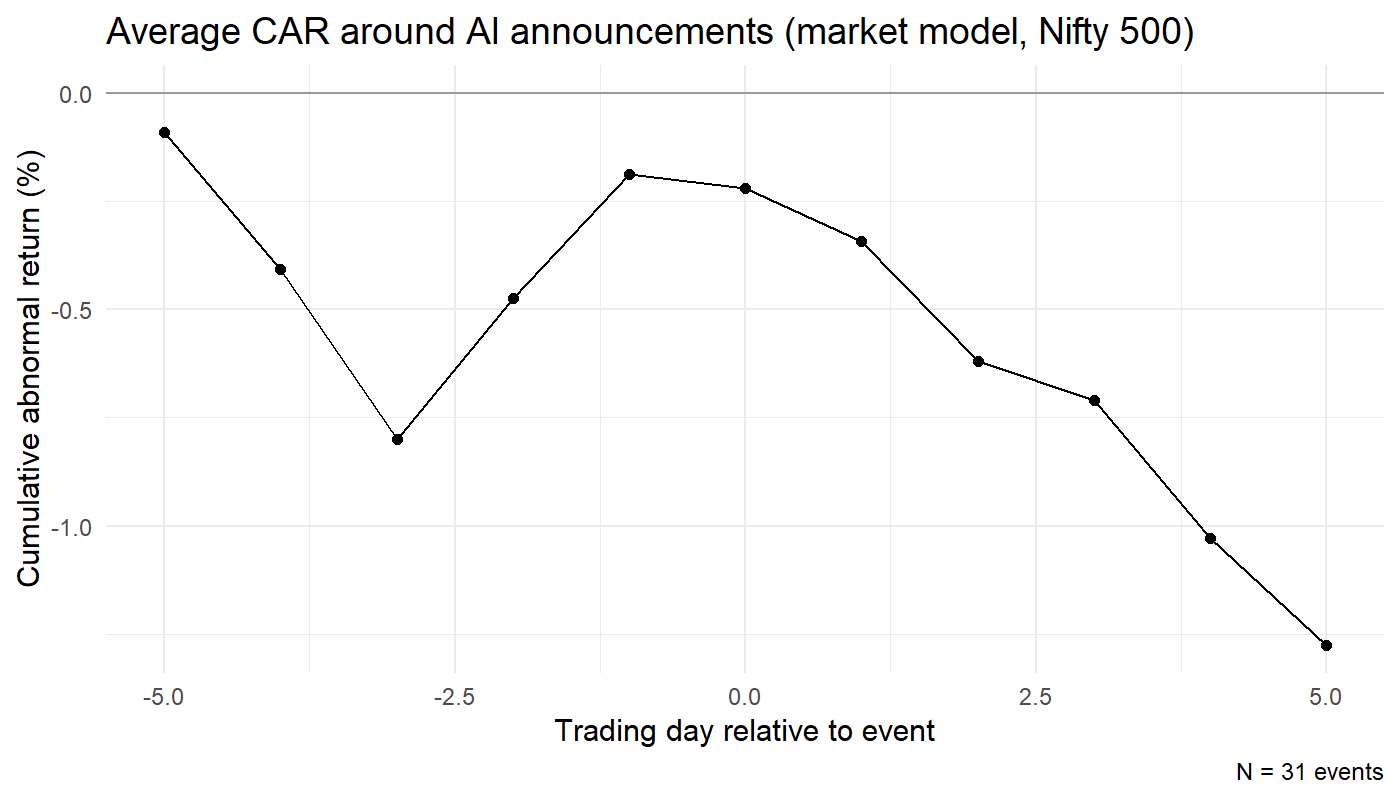
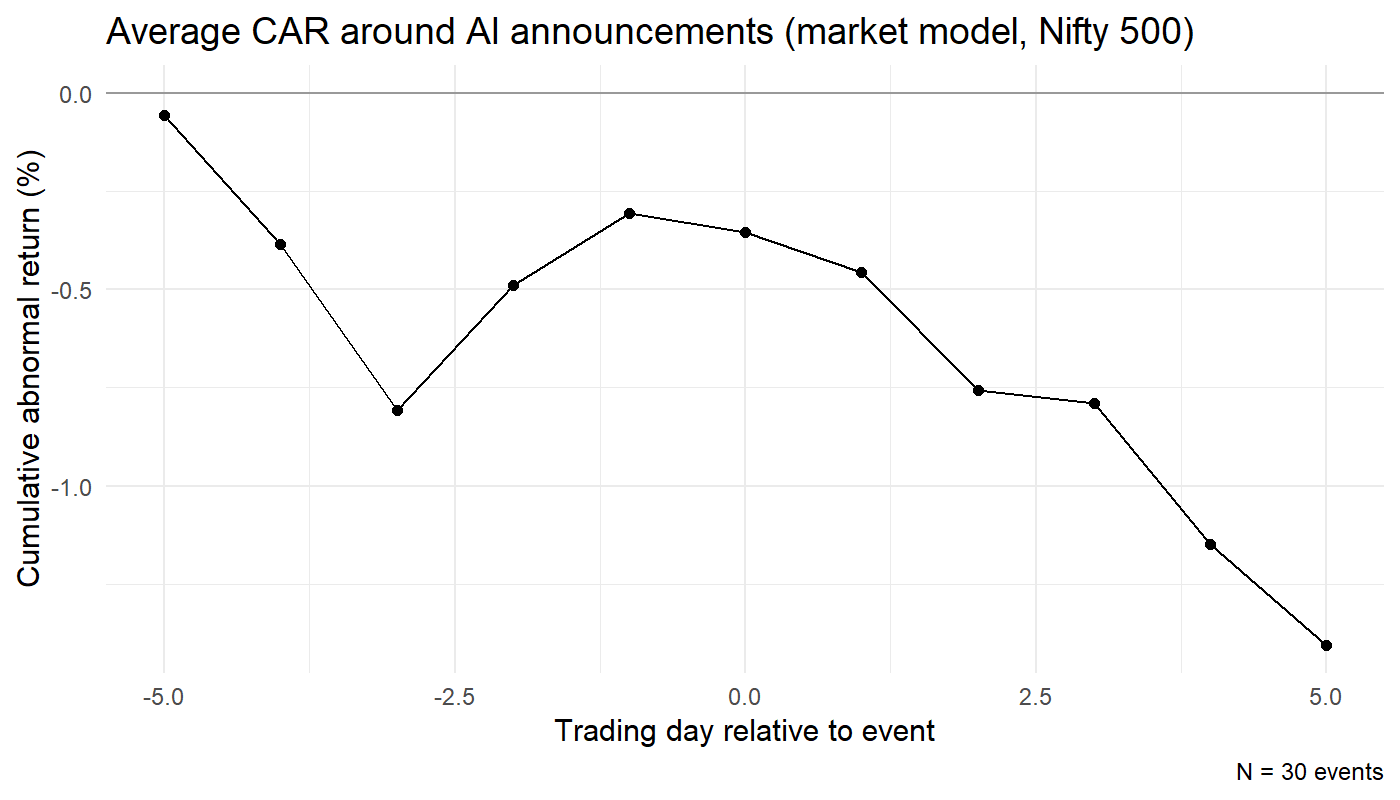
Post-hoc diagnostics: private-only CS DiD and Sun-Abraham with PSU x FY FE; same-firm overlap rule (Paytm E039 dropped), CARs re-run; AI x demonetisation removed from summary headline
- src/R/23_did_posthoc.R: CS private banks only (ROE -3.27 pp p=0.57; stock -36.3% p=0.004);
  SA bank FE + PSU x FY FE (ROE -2.48 pp p=0.043; stock -15.8% p=0.006); leads and n treated/control
- 30_event_study.R: keep earlier of overlapping same-firm events; N 31 -> 30
- spec_changes, summary, spec log, data notes updated; all labelled post-hoc

diff --git a/src/python/10_spec_log.py b/src/python/10_spec_log.py
@@ -41,11 +41,16 @@ for r in pc.itertuples():  # POST-HOC (docs/spec_changes.md 2026-11-26)
     rows.append(f"| {D} | src/R/22_psu_check.R (POST-HOC) | {r.outcome} | `ai_l1:psu` (per 1 SD, t−1) | n={r.n} | "
                 f"{r.spec}; controls(t−1); cluster bank | {fmt(r.interaction)} | SE {fmt(r.se_int)}, p={fmt(r.p_int)}, "
                 f"wild p={fmt(r.p_int_wild)} | PSU slope {fmt(r.psu_slope)} (p={fmt(r.p_psu)}) |")
+dp = pd.read_csv(T / "did_posthoc.csv") if (T / "did_posthoc.csv").exists() else pd.DataFrame()
+for r in (dp[dp["term"] == "overall ATT"].itertuples() if len(dp) else []):  # POST-HOC (docs/spec_changes.md 2026-11-26)
+    rows.append(f"| {D} | src/R/23_did_posthoc.R (POST-HOC) | {r.outcome} | post_adopt (gname_main) | {r.n_treated} treated, "
+                f"{r.n_control_never} never/late | {r.spec}; x = {r.xformla} | {fmt(r.estimate)} | SE {fmt(r.se)}, p={fmt(r.p)} | "
+                f"joint pre p={fmt(r.pretrend_wald_p)}; leads in did_posthoc.csv |")
 ev = pd.read_csv(T / "event_study_tests.csv")
 for r in ev.itertuples():
     rows.append(f"| {D} | src/R/30_event_study.R | CAR{r.window} (%) | AI announcement | {r.group}, N={r.N} | "
                 f"market model [−250,−30], benchmark {r.benchmark} | mean {fmt(r.mean_car_pct, 2)}% | "
-                f"KP-BMP p={fmt(r.p_kp)}, Corrado p={fmt(r.p_corrado)} | r̄={fmt(r.rbar)} |")
+                f"KP-BMP p={fmt(r.p_kp)}, Corrado p={fmt(r.p_corrado)} | r̄={fmt(r.rbar)}; POST-HOC same-firm overlap rule applied (E039 dropped) |")
 
 text = LOG.read_text(encoding="utf-8")
 if BEGIN in text:
@@ -53,4 +58,4 @@ if BEGIN in text:
 block = "\n".join([BEGIN] + rows + [END]) + "\n"
 LOG.write_text(text + block, encoding="utf-8")
 print(f"spec_log: {len(rows)} generated rows (FE {len(fe)}, DiD {len(dd[dd.term.isin(['overall ATT', 'ATT'])])}, "
-      f"robustness {len(rb)}, PSU check {len(pc)}, event study {len(ev)})")
+      f"robustness {len(rb)}, PSU check {len(pc)}, DiD post-hoc {len(dp[dp.term == 'overall ATT']) if len(dp) else 0}, event study {len(ev)})")

diff --git a/results/spec_log.md b/results/spec_log.md
@@ -164,40 +164,44 @@ Every estimated specification, including null results.
 | 2026-11-26 | src/R/22_psu_check.R (POST-HOC) | tobins_q | `ai_l1:psu` (per 1 SD, t−1) | n=306 | (1) original: bank + FY FE; controls(t−1); cluster bank | 0.020 | SE 0.017, p=0.237, wild p=0.288 | PSU slope -0.002 (p=0.811) |
 | 2026-11-26 | src/R/22_psu_check.R (POST-HOC) | tobins_q | `ai_l1:psu` (per 1 SD, t−1) | n=306 | (2) PSU-specific year FE; controls(t−1); cluster bank | -0.004 | SE 0.018, p=0.843, wild p=0.865 | PSU slope -0.005 (p=0.285) |
 | 2026-11-26 | src/R/22_psu_check.R (POST-HOC) | tobins_q | `ai_l1:psu` (per 1 SD, t−1) | n=306 | (3) bank-specific linear trends; controls(t−1); cluster bank | 0.010 | SE 0.016, p=0.541, wild p= | PSU slope -0.003 (p=0.146) |
-| 2026-11-26 | src/R/30_event_study.R | CAR[-1,+1] (%) | AI announcement | All, N=31 | market model [−250,−30], benchmark NIFTY500 | mean 0.13% | KP-BMP p=0.813, Corrado p=0.493 | r̄=0.129 |
-| 2026-11-26 | src/R/30_event_study.R | CAR[-5,+5] (%) | AI announcement | All, N=31 | market model [−250,−30], benchmark NIFTY500 | mean -1.28% | KP-BMP p=0.460, Corrado p=0.200 | r̄=0.129 |
-| 2026-11-26 | src/R/30_event_study.R | CAR[-1,+1] (%) | AI announcement | type: Private, N=14 | market model [−250,−30], benchmark NIFTY500 | mean -0.15% | KP-BMP p=0.914, Corrado p=0.892 | r̄=0.129 |
-| 2026-11-26 | src/R/30_event_study.R | CAR[-5,+5] (%) | AI announcement | type: Private, N=14 | market model [−250,−30], benchmark NIFTY500 | mean -1.54% | KP-BMP p=0.437, Corrado p=0.228 | r̄=0.129 |
-| 2026-11-26 | src/R/30_event_study.R | CAR[-1,+1] (%) | AI announcement | type: NBFC, N=4 | market model [−250,−30], benchmark NIFTY500 | mean 1.71% | KP-BMP p=0.284, Corrado p=0.075 | r̄=0.129 |
-| 2026-11-26 | src/R/30_event_study.R | CAR[-5,+5] (%) | AI announcement | type: NBFC, N=4 | market model [−250,−30], benchmark NIFTY500 | mean 1.74% | KP-BMP p=0.648, Corrado p=0.288 | r̄=0.129 |
-| 2026-11-26 | src/R/30_event_study.R | CAR[-1,+1] (%) | AI announcement | type: PSU, N=8 | market model [−250,−30], benchmark NIFTY500 | mean -0.37% | KP-BMP p=0.965, Corrado p=0.846 | r̄=0.129 |
-| 2026-11-26 | src/R/30_event_study.R | CAR[-5,+5] (%) | AI announcement | type: PSU, N=8 | market model [−250,−30], benchmark NIFTY500 | mean -2.70% | KP-BMP p=0.041, Corrado p=0.047 | r̄=0.129 |
-| 2026-11-26 | src/R/30_event_study.R | CAR[-1,+1] (%) | AI announcement | type: Fintech, N=5 | market model [−250,−30], benchmark NIFTY500 | mean 0.48% | KP-BMP p=0.742, Corrado p=0.557 | r̄=0.129 |
-| 2026-11-26 | src/R/30_event_study.R | CAR[-5,+5] (%) | AI announcement | type: Fintech, N=5 | market model [−250,−30], benchmark NIFTY500 | mean -0.68% | KP-BMP p=0.816, Corrado p=0.769 | r̄=0.129 |
-| 2026-11-26 | src/R/30_event_study.R | CAR[-1,+1] (%) | AI announcement | category: product/service launch, N=19 | market model [−250,−30], benchmark NIFTY500 | mean 0.27% | KP-BMP p=0.868, Corrado p=0.463 | r̄=0.129 |
-| 2026-11-26 | src/R/30_event_study.R | CAR[-5,+5] (%) | AI announcement | category: product/service launch, N=19 | market model [−250,−30], benchmark NIFTY500 | mean -1.62% | KP-BMP p=0.345, Corrado p=0.095 | r̄=0.129 |
-| 2026-11-26 | src/R/30_event_study.R | CAR[-1,+1] (%) | AI announcement | category: partnership/vendor deal, N=4 | market model [−250,−30], benchmark NIFTY500 | mean -2.49% | KP-BMP p=0.326, Corrado p=0.256 | r̄=0.129 |
-| 2026-11-26 | src/R/30_event_study.R | CAR[-5,+5] (%) | AI announcement | category: partnership/vendor deal, N=4 | market model [−250,−30], benchmark NIFTY500 | mean -3.06% | KP-BMP p=0.295, Corrado p=0.699 | r̄=0.129 |
-| 2026-11-26 | src/R/30_event_study.R | CAR[-1,+1] (%) | AI announcement | category: ai investment/acquisition, N=6 | market model [−250,−30], benchmark NIFTY500 | mean 0.72% | KP-BMP p=0.694, Corrado p=0.474 | r̄=0.129 |
-| 2026-11-26 | src/R/30_event_study.R | CAR[-5,+5] (%) | AI announcement | category: ai investment/acquisition, N=6 | market model [−250,−30], benchmark NIFTY500 | mean 0.14% | KP-BMP p=0.862, Corrado p=0.909 | r̄=0.129 |
-| 2026-11-26 | src/R/30_event_study.R | CAR[-1,+1] (%) | AI announcement | category: internal deployment, N=2 | market model [−250,−30], benchmark NIFTY500 | mean 2.29% | KP-BMP p=0.214, Corrado p=0.361 | r̄=0.129 |
-| 2026-11-26 | src/R/30_event_study.R | CAR[-5,+5] (%) | AI announcement | category: internal deployment, N=2 | market model [−250,−30], benchmark NIFTY500 | mean 1.30% | KP-BMP p=0.789, Corrado p=0.769 | r̄=0.129 |
-| 2026-11-26 | src/R/30_event_study.R | CAR[-1,+1] (%) | AI announcement | All, N=31 | market model [−250,−30], benchmark NIFTYBANK | mean 0.12% | KP-BMP p=0.747, Corrado p=0.560 | r̄=0.069 |
-| 2026-11-26 | src/R/30_event_study.R | CAR[-5,+5] (%) | AI announcement | All, N=31 | market model [−250,−30], benchmark NIFTYBANK | mean -1.14% | KP-BMP p=0.440, Corrado p=0.205 | r̄=0.069 |
-| 2026-11-26 | src/R/30_event_study.R | CAR[-1,+1] (%) | AI announcement | type: Private, N=14 | market model [−250,−30], benchmark NIFTYBANK | mean 0.04% | KP-BMP p=0.993, Corrado p=0.920 | r̄=0.069 |
-| 2026-11-26 | src/R/30_event_study.R | CAR[-5,+5] (%) | AI announcement | type: Private, N=14 | market model [−250,−30], benchmark NIFTYBANK | mean -0.77% | KP-BMP p=0.587, Corrado p=0.522 | r̄=0.069 |
-| 2026-11-26 | src/R/30_event_study.R | CAR[-1,+1] (%) | AI announcement | type: NBFC, N=4 | market model [−250,−30], benchmark NIFTYBANK | mean 1.89% | KP-BMP p=0.161, Corrado p=0.082 | r̄=0.069 |
-| 2026-11-26 | src/R/30_event_study.R | CAR[-5,+5] (%) | AI announcement | type: NBFC, N=4 | market model [−250,−30], benchmark NIFTYBANK | mean 0.60% | KP-BMP p=0.983, Corrado p=0.938 | r̄=0.069 |
-| 2026-11-26 | src/R/30_event_study.R | CAR[-1,+1] (%) | AI announcement | type: PSU, N=8 | market model [−250,−30], benchmark NIFTYBANK | mean -0.47% | KP-BMP p=0.983, Corrado p=0.981 | r̄=0.069 |
-| 2026-11-26 | src/R/30_event_study.R | CAR[-5,+5] (%) | AI announcement | type: PSU, N=8 | market model [−250,−30], benchmark NIFTYBANK | mean -2.83% | KP-BMP p=0.211, Corrado p=0.088 | r̄=0.069 |
-| 2026-11-26 | src/R/30_event_study.R | CAR[-1,+1] (%) | AI announcement | type: Fintech, N=5 | market model [−250,−30], benchmark NIFTYBANK | mean -0.14% | KP-BMP p=0.975, Corrado p=0.986 | r̄=0.069 |
-| 2026-11-26 | src/R/30_event_study.R | CAR[-5,+5] (%) | AI announcement | type: Fintech, N=5 | market model [−250,−30], benchmark NIFTYBANK | mean -0.89% | KP-BMP p=0.738, Corrado p=0.998 | r̄=0.069 |
-| 2026-11-26 | src/R/30_event_study.R | CAR[-1,+1] (%) | AI announcement | category: product/service launch, N=19 | market model [−250,−30], benchmark NIFTYBANK | mean 0.18% | KP-BMP p=0.913, Corrado p=0.722 | r̄=0.069 |
-| 2026-11-26 | src/R/30_event_study.R | CAR[-5,+5] (%) | AI announcement | category: product/service launch, N=19 | market model [−250,−30], benchmark NIFTYBANK | mean -1.41% | KP-BMP p=0.345, Corrado p=0.149 | r̄=0.069 |
-| 2026-11-26 | src/R/30_event_study.R | CAR[-1,+1] (%) | AI announcement | category: partnership/vendor deal, N=4 | market model [−250,−30], benchmark NIFTYBANK | mean -3.54% | KP-BMP p=0.148, Corrado p=0.034 | r̄=0.069 |
-| 2026-11-26 | src/R/30_event_study.R | CAR[-5,+5] (%) | AI announcement | category: partnership/vendor deal, N=4 | market model [−250,−30], benchmark NIFTYBANK | mean -3.43% | KP-BMP p=0.421, Corrado p=0.517 | r̄=0.069 |
-| 2026-11-26 | src/R/30_event_study.R | CAR[-1,+1] (%) | AI announcement | category: ai investment/acquisition, N=6 | market model [−250,−30], benchmark NIFTYBANK | mean 1.04% | KP-BMP p=0.445, Corrado p=0.308 | r̄=0.069 |
-| 2026-11-26 | src/R/30_event_study.R | CAR[-5,+5] (%) | AI announcement | category: ai investment/acquisition, N=6 | market model [−250,−30], benchmark NIFTYBANK | mean -0.45% | KP-BMP p=0.614, Corrado p=0.600 | r̄=0.069 |
-| 2026-11-26 | src/R/30_event_study.R | CAR[-1,+1] (%) | AI announcement | category: internal deployment, N=2 | market model [−250,−30], benchmark NIFTYBANK | mean 4.05% | KP-BMP p=0.252, Corrado p=0.022 | r̄=0.069 |
-| 2026-11-26 | src/R/30_event_study.R | CAR[-5,+5] (%) | AI announcement | category: internal deployment, N=2 | market model [−250,−30], benchmark NIFTYBANK | mean 3.85% | KP-BMP p=0.101, Corrado p=0.235 | r̄=0.069 |
+| 2026-11-26 | src/R/23_did_posthoc.R (POST-HOC) | roe | post_adopt (gname_main) | 10 treated, 3 never/late | (a) CS, private banks only; x = ~ baseline_age + baseline_ln_assets | -3.271 | SE 5.817, p=0.574 | joint pre p=0.000; leads in did_posthoc.csv |
+| 2026-11-26 | src/R/23_did_posthoc.R (POST-HOC) | roe | post_adopt (gname_main) | 14 treated, 11 never/late | (b) Sun-Abraham, bank FE + PSU x FY FE; x = controls(t-1) | -2.480 | SE 1.226, p=0.043 | joint pre p=; leads in did_posthoc.csv |
+| 2026-11-26 | src/R/23_did_posthoc.R (POST-HOC) | stock_ret_pct | post_adopt (gname_main) | 11 treated, 2 never/late | (a) CS, private banks only; x = ~ baseline_age + baseline_ln_assets | -36.316 | SE 12.526, p=0.004 | joint pre p=0.000; leads in did_posthoc.csv |
+| 2026-11-26 | src/R/23_did_posthoc.R (POST-HOC) | stock_ret_pct | post_adopt (gname_main) | 19 treated, 6 never/late | (b) Sun-Abraham, bank FE + PSU x FY FE; x = controls(t-1) | -15.835 | SE 5.787, p=0.006 | joint pre p=; leads in did_posthoc.csv |
+| 2026-11-26 | src/R/30_event_study.R | CAR[-1,+1] (%) | AI announcement | All, N=30 | market model [−250,−30], benchmark NIFTY500 | mean 0.03% | KP-BMP p=0.843, Corrado p=0.580 | r̄=0.112; POST-HOC same-firm overlap rule applied (E039 dropped) |
+| 2026-11-26 | src/R/30_event_study.R | CAR[-5,+5] (%) | AI announcement | All, N=30 | market model [−250,−30], benchmark NIFTY500 | mean -1.41% | KP-BMP p=0.403, Corrado p=0.164 | r̄=0.112; POST-HOC same-firm overlap rule applied (E039 dropped) |
+| 2026-11-26 | src/R/30_event_study.R | CAR[-1,+1] (%) | AI announcement | type: Private, N=14 | market model [−250,−30], benchmark NIFTY500 | mean -0.15% | KP-BMP p=0.909, Corrado p=0.892 | r̄=0.112; POST-HOC same-firm overlap rule applied (E039 dropped) |
+| 2026-11-26 | src/R/30_event_study.R | CAR[-5,+5] (%) | AI announcement | type: Private, N=14 | market model [−250,−30], benchmark NIFTY500 | mean -1.54% | KP-BMP p=0.413, Corrado p=0.228 | r̄=0.112; POST-HOC same-firm overlap rule applied (E039 dropped) |
+| 2026-11-26 | src/R/30_event_study.R | CAR[-1,+1] (%) | AI announcement | type: NBFC, N=4 | market model [−250,−30], benchmark NIFTY500 | mean 1.71% | KP-BMP p=0.273, Corrado p=0.075 | r̄=0.112; POST-HOC same-firm overlap rule applied (E039 dropped) |
+| 2026-11-26 | src/R/30_event_study.R | CAR[-5,+5] (%) | AI announcement | type: NBFC, N=4 | market model [−250,−30], benchmark NIFTY500 | mean 1.74% | KP-BMP p=0.639, Corrado p=0.288 | r̄=0.112; POST-HOC same-firm overlap rule applied (E039 dropped) |
+| 2026-11-26 | src/R/30_event_study.R | CAR[-1,+1] (%) | AI announcement | type: PSU, N=8 | market model [−250,−30], benchmark NIFTY500 | mean -0.37% | KP-BMP p=0.963, Corrado p=0.846 | r̄=0.112; POST-HOC same-firm overlap rule applied (E039 dropped) |
+| 2026-11-26 | src/R/30_event_study.R | CAR[-5,+5] (%) | AI announcement | type: PSU, N=8 | market model [−250,−30], benchmark NIFTY500 | mean -2.70% | KP-BMP p=0.035, Corrado p=0.047 | r̄=0.112; POST-HOC same-firm overlap rule applied (E039 dropped) |
+| 2026-11-26 | src/R/30_event_study.R | CAR[-1,+1] (%) | AI announcement | type: Fintech, N=4 | market model [−250,−30], benchmark NIFTY500 | mean -0.18% | KP-BMP p=0.978, Corrado p=0.794 | r̄=0.112; POST-HOC same-firm overlap rule applied (E039 dropped) |
+| 2026-11-26 | src/R/30_event_study.R | CAR[-5,+5] (%) | AI announcement | type: Fintech, N=4 | market model [−250,−30], benchmark NIFTY500 | mean -1.50% | KP-BMP p=0.595, Corrado p=0.929 | r̄=0.112; POST-HOC same-firm overlap rule applied (E039 dropped) |
+| 2026-11-26 | src/R/30_event_study.R | CAR[-1,+1] (%) | AI announcement | category: product/service launch, N=18 | market model [−250,−30], benchmark NIFTY500 | mean 0.11% | KP-BMP p=0.927, Corrado p=0.575 | r̄=0.112; POST-HOC same-firm overlap rule applied (E039 dropped) |
+| 2026-11-26 | src/R/30_event_study.R | CAR[-5,+5] (%) | AI announcement | category: product/service launch, N=18 | market model [−250,−30], benchmark NIFTY500 | mean -1.85% | KP-BMP p=0.278, Corrado p=0.069 | r̄=0.112; POST-HOC same-firm overlap rule applied (E039 dropped) |
+| 2026-11-26 | src/R/30_event_study.R | CAR[-1,+1] (%) | AI announcement | category: partnership/vendor deal, N=4 | market model [−250,−30], benchmark NIFTY500 | mean -2.49% | KP-BMP p=0.315, Corrado p=0.256 | r̄=0.112; POST-HOC same-firm overlap rule applied (E039 dropped) |
+| 2026-11-26 | src/R/30_event_study.R | CAR[-5,+5] (%) | AI announcement | category: partnership/vendor deal, N=4 | market model [−250,−30], benchmark NIFTY500 | mean -3.06% | KP-BMP p=0.284, Corrado p=0.699 | r̄=0.112; POST-HOC same-firm overlap rule applied (E039 dropped) |
+| 2026-11-26 | src/R/30_event_study.R | CAR[-1,+1] (%) | AI announcement | category: ai investment/acquisition, N=6 | market model [−250,−30], benchmark NIFTY500 | mean 0.72% | KP-BMP p=0.683, Corrado p=0.474 | r̄=0.112; POST-HOC same-firm overlap rule applied (E039 dropped) |
+| 2026-11-26 | src/R/30_event_study.R | CAR[-5,+5] (%) | AI announcement | category: ai investment/acquisition, N=6 | market model [−250,−30], benchmark NIFTY500 | mean 0.14% | KP-BMP p=0.857, Corrado p=0.909 | r̄=0.112; POST-HOC same-firm overlap rule applied (E039 dropped) |
+| 2026-11-26 | src/R/30_event_study.R | CAR[-1,+1] (%) | AI announcement | category: internal deployment, N=2 | market model [−250,−30], benchmark NIFTY500 | mean 2.29% | KP-BMP p=0.211, Corrado p=0.361 | r̄=0.112; POST-HOC same-firm overlap rule applied (E039 dropped) |
+| 2026-11-26 | src/R/30_event_study.R | CAR[-5,+5] (%) | AI announcement | category: internal deployment, N=2 | market model [−250,−30], benchmark NIFTY500 | mean 1.30% | KP-BMP p=0.785, Corrado p=0.769 | r̄=0.112; POST-HOC same-firm overlap rule applied (E039 dropped) |
+| 2026-11-26 | src/R/30_event_study.R | CAR[-1,+1] (%) | AI announcement | All, N=30 | market model [−250,−30], benchmark NIFTYBANK | mean 0.02% | KP-BMP p=0.754, Corrado p=0.640 | r̄=0.044; POST-HOC same-firm overlap rule applied (E039 dropped) |
+| 2026-11-26 | src/R/30_event_study.R | CAR[-5,+5] (%) | AI announcement | All, N=30 | market model [−250,−30], benchmark NIFTYBANK | mean -1.25% | KP-BMP p=0.346, Corrado p=0.183 | r̄=0.044; POST-HOC same-firm overlap rule applied (E039 dropped) |
+| 2026-11-26 | src/R/30_event_study.R | CAR[-1,+1] (%) | AI announcement | type: Private, N=14 | market model [−250,−30], benchmark NIFTYBANK | mean 0.04% | KP-BMP p=0.992, Corrado p=0.920 | r̄=0.044; POST-HOC same-firm overlap rule applied (E039 dropped) |
+| 2026-11-26 | src/R/30_event_study.R | CAR[-5,+5] (%) | AI announcement | type: Private, N=14 | market model [−250,−30], benchmark NIFTYBANK | mean -0.77% | KP-BMP p=0.545, Corrado p=0.522 | r̄=0.044; POST-HOC same-firm overlap rule applied (E039 dropped) |
+| 2026-11-26 | src/R/30_event_study.R | CAR[-1,+1] (%) | AI announcement | type: NBFC, N=4 | market model [−250,−30], benchmark NIFTYBANK | mean 1.89% | KP-BMP p=0.147, Corrado p=0.082 | r̄=0.044; POST-HOC same-firm overlap rule applied (E039 dropped) |
+| 2026-11-26 | src/R/30_event_study.R | CAR[-5,+5] (%) | AI announcement | type: NBFC, N=4 | market model [−250,−30], benchmark NIFTYBANK | mean 0.60% | KP-BMP p=0.983, Corrado p=0.938 | r̄=0.044; POST-HOC same-firm overlap rule applied (E039 dropped) |
+| 2026-11-26 | src/R/30_event_study.R | CAR[-1,+1] (%) | AI announcement | type: PSU, N=8 | market model [−250,−30], benchmark NIFTYBANK | mean -0.47% | KP-BMP p=0.982, Corrado p=0.981 | r̄=0.044; POST-HOC same-firm overlap rule applied (E039 dropped) |
+| 2026-11-26 | src/R/30_event_study.R | CAR[-5,+5] (%) | AI announcement | type: PSU, N=8 | market model [−250,−30], benchmark NIFTYBANK | mean -2.83% | KP-BMP p=0.181, Corrado p=0.088 | r̄=0.044; POST-HOC same-firm overlap rule applied (E039 dropped) |
+| 2026-11-26 | src/R/30_event_study.R | CAR[-1,+1] (%) | AI announcement | type: Fintech, N=4 | market model [−250,−30], benchmark NIFTYBANK | mean -0.92% | KP-BMP p=0.776, Corrado p=0.746 | r̄=0.044; POST-HOC same-firm overlap rule applied (E039 dropped) |
+| 2026-11-26 | src/R/30_event_study.R | CAR[-5,+5] (%) | AI announcement | type: Fintech, N=4 | market model [−250,−30], benchmark NIFTYBANK | mean -1.63% | KP-BMP p=0.589, Corrado p=0.879 | r̄=0.044; POST-HOC same-firm overlap rule applied (E039 dropped) |
+| 2026-11-26 | src/R/30_event_study.R | CAR[-1,+1] (%) | AI announcement | category: product/service launch, N=18 | market model [−250,−30], benchmark NIFTYBANK | mean 0.03% | KP-BMP p=0.983, Corrado p=0.842 | r̄=0.044; POST-HOC same-firm overlap rule applied (E039 dropped) |
+| 2026-11-26 | src/R/30_event_study.R | CAR[-5,+5] (%) | AI announcement | category: product/service launch, N=18 | market model [−250,−30], benchmark NIFTYBANK | mean -1.60% | KP-BMP p=0.256, Corrado p=0.127 | r̄=0.044; POST-HOC same-firm overlap rule applied (E039 dropped) |
+| 2026-11-26 | src/R/30_event_study.R | CAR[-1,+1] (%) | AI announcement | category: partnership/vendor deal, N=4 | market model [−250,−30], benchmark NIFTYBANK | mean -3.54% | KP-BMP p=0.135, Corrado p=0.034 | r̄=0.044; POST-HOC same-firm overlap rule applied (E039 dropped) |
+| 2026-11-26 | src/R/30_event_study.R | CAR[-5,+5] (%) | AI announcement | category: partnership/vendor deal, N=4 | market model [−250,−30], benchmark NIFTYBANK | mean -3.43% | KP-BMP p=0.402, Corrado p=0.517 | r̄=0.044; POST-HOC same-firm overlap rule applied (E039 dropped) |
+| 2026-11-26 | src/R/30_event_study.R | CAR[-1,+1] (%) | AI announcement | category: ai investment/acquisition, N=6 | market model [−250,−30], benchmark NIFTYBANK | mean 1.04% | KP-BMP p=0.418, Corrado p=0.308 | r̄=0.044; POST-HOC same-firm overlap rule applied (E039 dropped) |
+| 2026-11-26 | src/R/30_event_study.R | CAR[-5,+5] (%) | AI announcement | category: ai investment/acquisition, N=6 | market model [−250,−30], benchmark NIFTYBANK | mean -0.45% | KP-BMP p=0.591, Corrado p=0.600 | r̄=0.044; POST-HOC same-firm overlap rule applied (E039 dropped) |
+| 2026-11-26 | src/R/30_event_study.R | CAR[-1,+1] (%) | AI announcement | category: internal deployment, N=2 | market model [−250,−30], benchmark NIFTYBANK | mean 4.05% | KP-BMP p=0.246, Corrado p=0.022 | r̄=0.044; POST-HOC same-firm overlap rule applied (E039 dropped) |
+| 2026-11-26 | src/R/30_event_study.R | CAR[-5,+5] (%) | AI announcement | category: internal deployment, N=2 | market model [−250,−30], benchmark NIFTYBANK | mean 3.85% | KP-BMP p=0.098, Corrado p=0.235 | r̄=0.044; POST-HOC same-firm overlap rule applied (E039 dropped) |
 <!-- generated:end -->

diff --git a/results/summary.md b/results/summary.md
@@ -13,8 +13,8 @@ search finds 0 AI patent applications for all 25 banks (1 filing in total), so t
 SD; the numbers below are from the corrected run (earlier: ROE +1.59 pp, stock return +12.71 %, p = 0.040).
 
 ## Data
-- Verified AI events: 54 of 88 candidates, across 25 firms; 39 CAR-eligible; 31 used in the event study after
-  excluding earnings (±3 trading days) and crisis windows.
+- Verified AI events: 54 of 88 candidates, across 25 firms; 39 CAR-eligible; 30 used in the event study after
+  excluding earnings (±3 trading days) and crisis windows and applying the post-hoc same-firm overlap rule.
 - Firm panel: 392 bank-FYs, 25 banks, FY2011–FY2026 (accounting variables to FY2025). Main adoption definition:
   19 of 25 banks treated within the window (5 of them in FY2026, when only stock returns are observed);
   6 never-treated (Central, UCO, BoM, KVB, DCB; Indian Bank adopts in FY2027).
@@ -46,7 +46,6 @@ clustered by bank (25 clusters); wild cluster bootstrap p (Webb, 9,999 draws). E
   +0.77 (p = 0.24), +0.58 (p = 0.52). ROA, Tobin's Q and stock-return interactions are not significant except stock
   return with bank trends (−14.3 %, p = 0.041).
 - Other interactions are in `results/tables/fe_results.csv`. AI × baseline age on ROE is +1.99 pp (p = 0.033).
-  AI × demonetisation on stock return is −161 % (p = 0.012) and is identified from a single FY.
 
 ## Phase 2b: staggered DiD (`post_adopt`, effect of post_adopt = 1)
 Callaway–Sant'Anna (not-yet-treated controls, x = baseline age and baseline ln assets) and Sun–Abraham:
@@ -62,14 +61,29 @@ Callaway–Sant'Anna (not-yet-treated controls, x = baseline age and baseline ln
   Stock return e = −9 to −1: −12.9 to +28.6 %, none significant (p ≥ 0.23); the longer leads now reach e = −14, and
   e = −11 (−51.7 %, p = 0.001) and e = −10 (+39.8 %, p = 0.005) are individually significant, with opposite signs.
 - Post-hoc, excluding Yes Bank: ROE −21.1 pp (p = 0.036); stock return −34.8 % (p = 0.012).
+- **Post-hoc** parallel-trends diagnostics (`src/R/23_did_posthoc.R`, `results/tables/did_posthoc.csv`; main adoption).
+  Motivation: the late / never-treated group is mostly PSU banks, whose ROE fell to about −10.7 % (FY2018) and
+  recovered to about +12.9 % (FY2025).
+  - (a) CS, private banks only (not-yet-treated + never-treated private controls): ROE −3.27 pp (SE 5.82, p = 0.57;
+    10 treated, 3 never/late-treated: DCB, KVB, SIB); stock return −36.3 % (SE 12.5, p = 0.004; 11 treated, 2 never-treated).
+    Leads: ROE e = −7 to −1 range −2.7 to +2.0 pp, three individually significant (e = −7 −1.7, e = −6 −2.7, e = −4 +2.0);
+    stock return e = −7 to −1 range −9.1 to +20.1 %, none significant. CS joint pre-test p < 0.001 for both outcomes.
+  - (b) Sun–Abraham, bank FE + PSU × FY FE (all banks): ROE −2.48 pp (SE 1.23, p = 0.043; 14 treated, 11
+    never/late-treated); stock return −15.8 % (SE 5.8, p = 0.006; 19 treated, 6 never-treated). Leads: ROE six of 13
+    significant, all negative (e = −12 to −8 between −6.3 and −12.2 pp; e = −5 −4.4 pp), e = −4 to −2 between −2.3 and
+    +0.7 pp; stock return one of 14 significant (e = −13, +25.9 %), e = −5 to −2 between +0.9 and +6.0 %. Joint lead test
+    not computable (more lead coefficients than the 25 clusters; clustered VCOV rank-deficient).
 
 ## Phase 3: event study (CARs)
-Market model, estimation window [−250, −30], Nifty 500 benchmark, N = 31 events:
-- All events: CAR[−1,+1] +0.13 % (Kolari–Pynnönen p = 0.81, Corrado p = 0.49); CAR[−5,+5] −1.28 % (p = 0.46, 0.20).
-- PSU (N = 8): CAR[−5,+5] −2.70 % (KP p = 0.041, Corrado p = 0.047); with Nifty Bank −2.83 % (p = 0.21, 0.09).
-- Private (N = 14), NBFC (N = 4) and fintech (N = 5): no CAR significant at 5 % under either test.
-- Caveat: two Paytm events one trading day apart (E070 2025-10-06, E039 2025-10-07) are both included, so their
-  event windows overlap and the same returns are counted twice (CAR[−1,+1] +4.4 % and +3.1 %).
+Market model, estimation window [−250, −30], Nifty 500 benchmark, N = 30 events (after the post-hoc overlap rule):
+- All events: CAR[−1,+1] +0.03 % (Kolari–Pynnönen p = 0.84, Corrado p = 0.58); CAR[−5,+5] −1.41 % (p = 0.40, 0.16).
+- PSU (N = 8): CAR[−5,+5] −2.70 % (KP p = 0.035, Corrado p = 0.047); with Nifty Bank −2.83 % (p = 0.18, 0.09).
+- Private (N = 14), NBFC (N = 4) and fintech (N = 4): no CAR significant at 5 % under either test. Fintech
+  CAR[−1,+1] −0.18 % (p = 0.98), CAR[−5,+5] −1.50 % (p = 0.60).
+- **Post-hoc** overlap rule (`docs/spec_changes.md`): of same-firm events with overlapping [−5,+5] windows only the
+  earlier is kept, so Paytm E039 (2025-10-07) is dropped and E070 (2025-10-06, CAR[−1,+1] +4.4 %) kept. Before the
+  rule (N = 31): all events CAR[−1,+1] +0.13 % (KP p = 0.81), CAR[−5,+5] −1.28 % (p = 0.46); PSU CAR[−5,+5] KP p = 0.041;
+  fintech (N = 5) CAR[−1,+1] +0.48 % (p = 0.74), CAR[−5,+5] −0.68 % (p = 0.82).
 
 ## Robustness (FE, per 1 SD of proxy at t−1)
 `ai_kw` on ROE: baseline +0.10 pp (p = 0.86), winsorised +0.11 (p = 0.85), + lagged profit growth +0.27 (p = 0.67),

diff --git a/docs/spec_changes.md b/docs/spec_changes.md
@@ -4,6 +4,9 @@ Changes to the fixed spec in CLAUDE.md. Each entry: date, section, change, reaso
 
 | Date | Section | Change | Reason |
 |---|---|---|---|
+| 2026-11-26 | §5 Phase 2b (**post-hoc**) | Added two DiD diagnostics, main adoption definition, ROE and stock return: (a) Callaway–Sant'Anna on private banks only (13 banks; controls = not-yet-treated + never-treated private banks; same `xformla`, falling back to `~1` if estimation fails, logged); (b) Sun–Abraham on all banks with bank FE + PSU×FY FE (controls lagged as in `21_did.R`). Cohorts adopting after an outcome's last observed FY count as never-treated for that outcome. Reported: overall ATT, event-time (pre-trend) coefficients, joint pre-trend Wald p, n treated / control. Script `src/R/23_did_posthoc.R`, output `results/tables/did_posthoc.csv`. Pre-specified full-sample CS / Sun–Abraham estimates remain the reported main results. | Post-hoc, after seeing the main DiD: the late / never-treated group is mostly PSU banks whose ROE fell to about −10.7 % (FY2018, AQR) and recovered to about +12.9 % (FY2025), so parallel trends with early private adopters are implausible. Labelled post-hoc in all outputs. |
+| 2026-11-26 | §5 Phase 3 exclusions (**post-hoc**) | Overlap rule added: when two events of the same firm that pass the earnings and crisis screens have overlapping [−5,+5] windows (event trading days ≤ 10 trading days apart), only the earlier event is kept. Applies to Paytm E070 (2025-10-06, kept) and E039 (2025-10-07, dropped). Implemented in `src/R/30_event_study.R`; CARs re-run and the earlier N = 31 results recorded in `results/summary.md`. | Post-hoc, after the CAR results: the two Paytm windows share the same returns, which counts them twice and breaks the independence assumed by the tests. The spec had no rule (see docs/data_notes.md). |
+| 2026-11-26 | Reporting (`results/summary.md`) (**post-hoc**) | AI × demonetisation removed from the summary's headline text; it stays in `results/tables/fe_results.csv` and the spec log. | Identified from a single FY (FY2017), so it is not informative enough for headline text. Decided after seeing the estimate. |
 | 2026-11-26 | §5 Phase 2a heterogeneity (**post-hoc**) | Added: AI~×~PSU (lag 1, all four outcomes) re-estimated with (a) PSU-specific year fixed effects (bank FE + PSU×FY FE) and (b) bank-specific linear trends (bank FE + bank×FY slope + FY FE), next to the original specification; the implied PSU slope (AI + AI×PSU) is reported with its clustered SE. New script `src/R/22_psu_check.R`, output `results/tables/fe_psu_check.csv`. The pre-specified AI×PSU estimate stays the reported main result. | Post-hoc, after seeing the positive AI×PSU result: year FE are common to all banks, so a PSU-specific recovery after the AQR clean-up (FY2019 onward), when PSU AI disclosure also rose, could load on the interaction. Labelled post-hoc in all outputs. |
 | 2026-11-26 | §4 proxy 3 (replaced) | AI patents dropped as a proxy: Indian banks file almost no AI patents (share of zero bank-years: AI patent applications 400 of 400 = 100%; any patent filing 399 of 400 = 99.75%, the one filing being SBI's IN202121002961A in FY2021). Kept as a descriptive fact only. Replaced by `ai_capability` (closest available measure of "innovative capability" from the Variables Selection sheet, which lacks R&D/tech-staff data): sum (0–4) of four binary components per bank × FY, each 1 if that FY's annual report mentions it, else 0, coded as observed per report (no carry-forward): (1) `cap_lead` dedicated digital/data/AI leader (Chief Digital / Data / Analytics / AI Officer; Head of AI / Analytics / Data Science; CIO, CTO, CISO excluded); (2) `cap_lab` AI / analytics / data / innovation lab or centre of excellence; (3) `cap_committee` board or management committee specifically for digital / AI / data / innovation (IT Strategy Committee and risk/audit committees excluded); (4) `cap_team` in-house data science / AI / ML / analytics team. Text matching on the already-extracted annual-report text (`src/python/13_ai_capability.py`); bank-FYs without a report are NA. Used in place of `ai_patents` in the robustness table (per 1 SD, lagged one year). | Researcher's decision (2026-11-26) after the pre-specified patent search returned no variation; no estimates run with `ai_capability` yet. |
 | 2026-11-26 | §4 proxy 3 (`ai_patents`) | Dropped from estimation (§0 fallback: proxy source fails). The pre-specified search was run (Google Patents Public Data on BigQuery, all 25 panel banks by harmonised assignee, filings from 2009-04-01, CPC G06N or dictionary terms): it returns 1 publication in total (SBI, IN202121002961A, 2021, no title/abstract/CPC) and 0 AI applications, so `ai_patents` = 0 for every bank-FY and has no variation. The zeros stay in the panel (`n_ai_patent_apps`, `ai_patents`); `40_robustness.R` skips proxies with zero variance. | Data limitation, not a result-driven choice: Google Patents' web search also shows 1 SBI result and none for ICICI Bank since 2009, so the source has almost no Indian-bank filings. The Indian Patent Office search requires a CAPTCHA and cannot be scripted. Decided before any estimate with this proxy. |

diff --git a/docs/data_notes.md b/docs/data_notes.md
@@ -52,7 +52,7 @@ Script `src/python/06_build_pca.py` (requests only) → `data/interim/pca_spells
 ## Events: research round 2 (2026-11-25)
 - New events from round 2 are in `data/raw/events_additions.csv` (E061–E078; hand-curated research output with sources and verdicts). `data/raw/events.csv` (user's candidate list) is not edited. Verdict updates for existing events are in `data/raw/events_verification.csv`.
 - Status: 78 candidates, 48 verified across 20 firms, 39 CAR-eligible.
-- Overlapping same-firm events (2026-11-26, `src/python/12_check_events.py`): Paytm E070 (Playback, 2025-10-06) and E039 (AI Soundbox, 2025-10-07) are one trading day apart and both enter the event study; their [−5,+5] windows overlap, so the same Paytm returns are counted twice. Both kept by decision (no rule in the spec); reported as a caveat. Paytm E069/E071/E072 also overlap but are excluded by the earnings screen.
+- Overlapping same-firm events (2026-11-26, `src/python/12_check_events.py`): Paytm E070 (Playback, 2025-10-06) and E039 (AI Soundbox, 2025-10-07) are one trading day apart and both enter the event study; their [−5,+5] windows overlap, so the same Paytm returns are counted twice. Originally both kept (no rule in the spec); post-hoc overlap rule added 2026-11-26 (docs/spec_changes.md): only the earlier event (E070) is kept, E039 is dropped from the CARs. Paytm E069/E071/E072 also overlap but are excluded by the earnings screen.
 - Unverified first-AI leads for adoption dates (annual-report only, no dated news): Union UVA FAQ chatbot FY2018; PNB PIHU FY2020; BoB Baroda Brainy FY2018; Bank of India BOI Seva 2019-09-07; UCO UMA FY2021; IOB Buddy FY2026; Federal Niki.ai FedMobile bot 2018-01-19 (news only); RBL ChatPay FY2018; Yes mPower 2017-01-05 (news only); Canara CANDI humanoid 2017-07-27 (AR does not say AI); Indian Bank ADYA 2021-04-01 (dated news blocked).
 
 ## Earnings-call transcripts (`ai_calls`, proxy 6) (2026-11-26)
